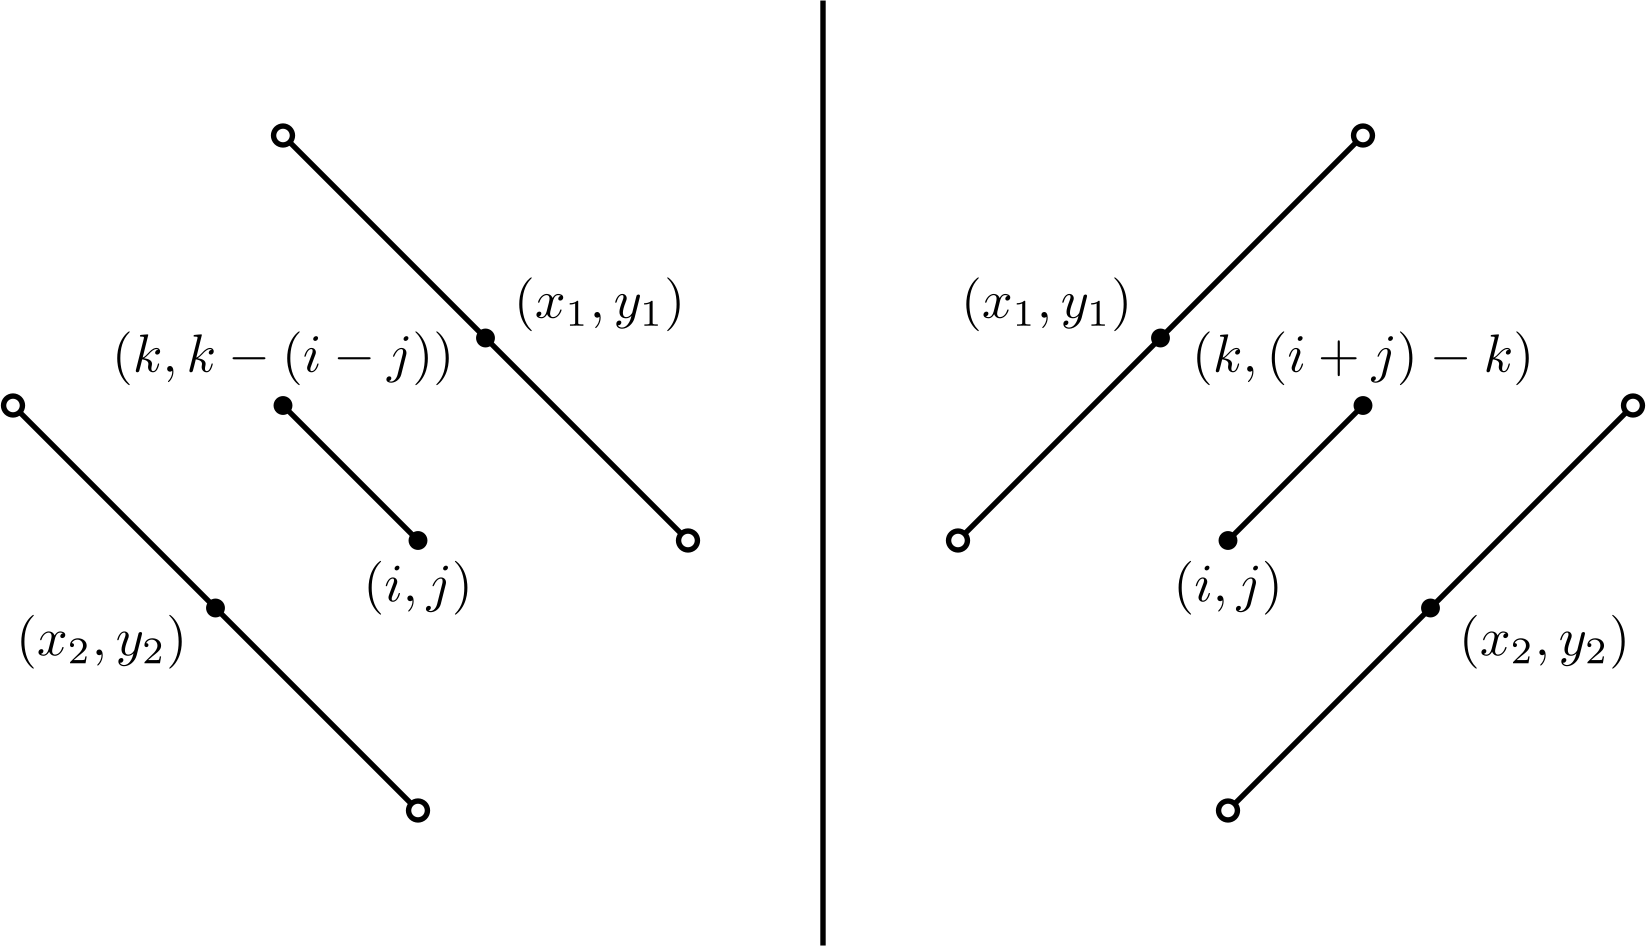
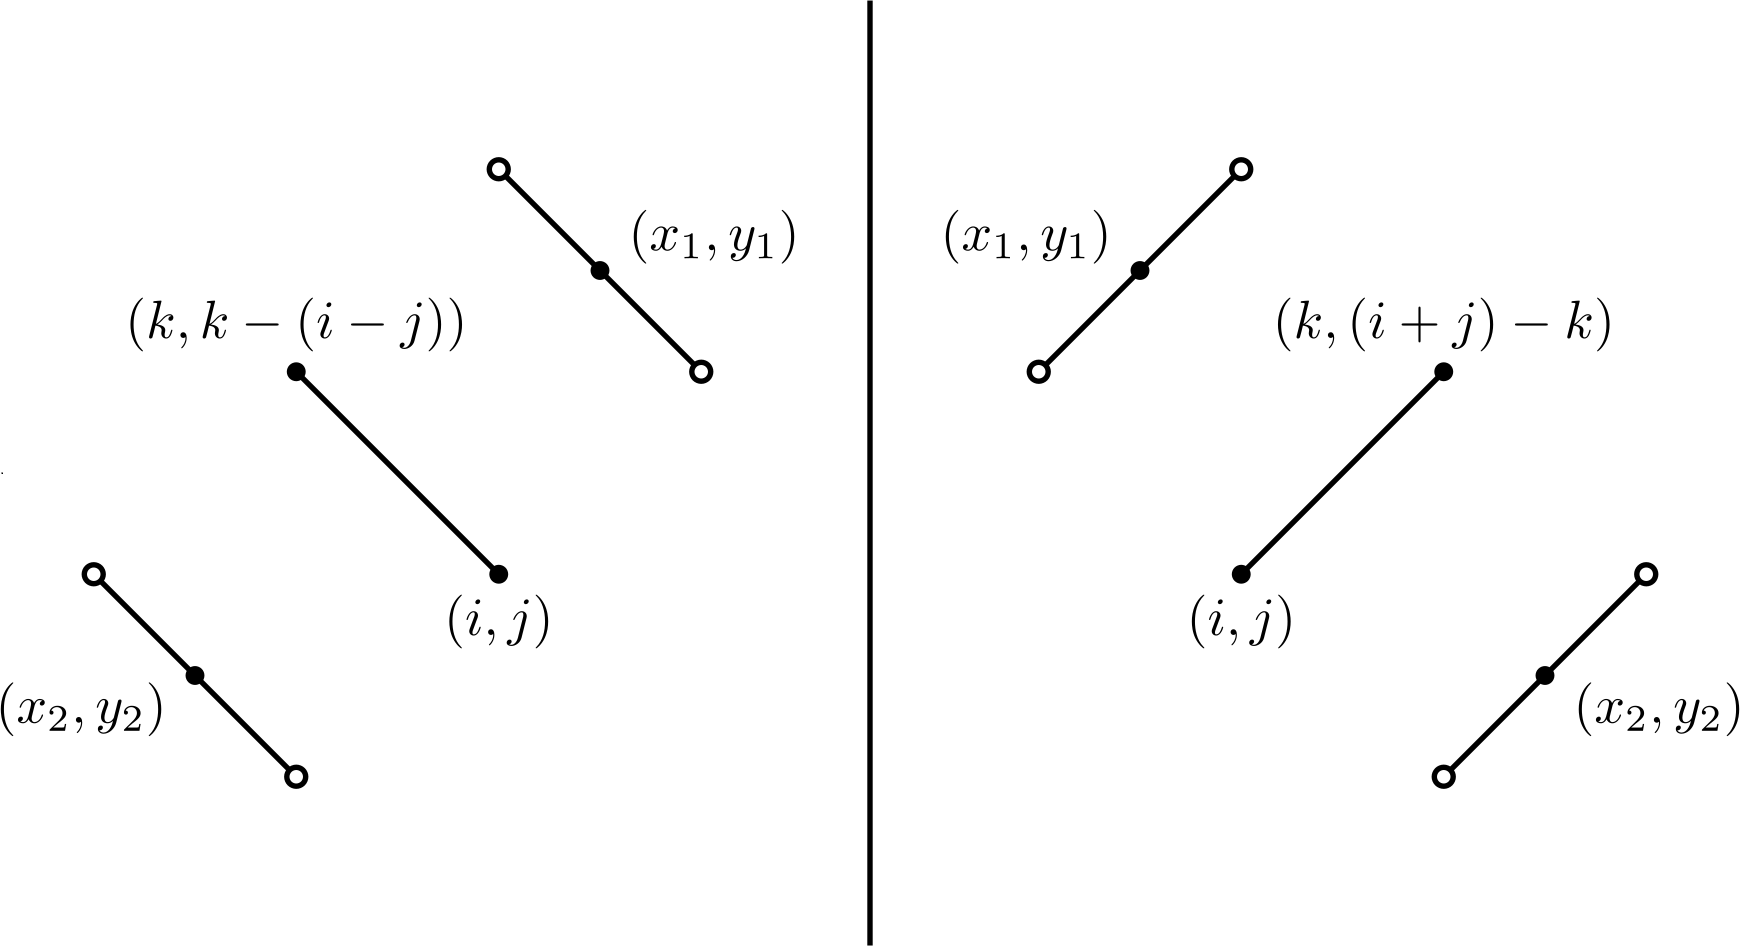
add

diff --git a/Sol/AT_tenka1_2018_e/sol2.py b/Sol/AT_tenka1_2018_e/sol2.py
@@ -3,11 +3,12 @@ import sys; sys.path.append(path + "Sol\\template"); from seg import *
 
 eps1, eps2 = 0.25, 0.35
 delta = 3.5
+scale = 1.5
 
 class Sol(Scene):
 	def construct(self):
 		self.camera.background_color = WHITE
-		x11, y11 = 1 - delta, 1; x12, y12 = -1 - delta, -1; x2, y2 = 0.5 - delta, -0.5; x3, y3 = -0.5 - delta, 0.5
+		x11, y11 = 1 * scale - delta, 1 * scale; x12, y12 = -1 * scale - delta, -1 * scale; x2, y2 = 0.5 * scale - delta, -0.5 * scale; x3, y3 = -0.5 * scale - delta, 0.5 * scale
 		list = [
 			point(1, x11, y11), point(1, x12, y12), point(1, x2, y2), point(1, x3, y3),
 			Line([x3, y3, 0], [x2, y2, 0], color = BLACK),
@@ -15,14 +16,14 @@ class Sol(Scene):
 			Tex(r"$(x_2,y_2)$", color = BLACK).move_to([x12, y12 - eps1, 0]).scale(0.8).align_to([x12 - eps1, y12, 0], RIGHT),
 			Tex(r"$(i,j)$", color = BLACK).move_to([x2, y2 - eps2, 0]).scale(0.8),
 			Tex(r"$(k,k-(i-j))$", color = BLACK).move_to([x3, y3 + eps2, 0]).scale(0.8),
-			Line([x3, y3 + 2 * (x2 - x3), 0], [x2 + 2 * (x2 - x3), y2, 0], color = BLACK),
-			Line([x3 - 2 * (x2 - x3), y3, 0], [x2, y2 - 2 * (x2 - x3), 0], color = BLACK),
-			point(0, x3, y3 + 2 * (x2 - x3)), point(0, x2 + 2 * (x2 - x3), y2),
-			point(0, x3 - 2 * (x2 - x3), y3), point(0, x2, y2 - 2 * (x2 - x3)),
+			Line([x3, y3 - 2 * (x2 - x3), 0], [x2 - 2 * (x2 - x3), y2, 0], color = BLACK),
+			Line([x3 + 2 * (x2 - x3), y3, 0], [x2, y2 + 2 * (x2 - x3), 0], color = BLACK),
+			point(0, x3, y3 - 2 * (x2 - x3)), point(0, x2 - 2 * (x2 - x3), y2),
+			point(0, x3 + 2 * (x2 - x3), y3), point(0, x2, y2 + 2 * (x2 - x3)),
 		]
 		add(self, list)
 
-		x11, y11 = -1 + delta, 1; x12, y12 = 1 + delta, -1; x2, y2 = -0.5 + delta, -0.5; x3, y3 = 0.5 + delta, 0.5
+		x11, y11 = -1 * scale + delta, 1 * scale; x12, y12 = 1 * scale + delta, -1 * scale; x2, y2 = -0.5 * scale + delta, -0.5 * scale; x3, y3 = 0.5 * scale + delta, 0.5 * scale
 		list = [
 			point(1, x11, y11), point(1, x12, y12), point(1, x2, y2), point(1, x3, y3),
 			Line([x3, y3, 0], [x2, y2, 0], color = BLACK),
@@ -30,10 +31,10 @@ class Sol(Scene):
 			Tex(r"$(x_2,y_2)$", color = BLACK).move_to([x12, y12 - eps1, 0]).scale(0.8).align_to([x12 + eps1, y12, 0], LEFT),
 			Tex(r"$(i,j)$", color = BLACK).move_to([x2, y2 - eps2, 0]).scale(0.8),
 			Tex(r"$(k,(i+j)-k)$", color = BLACK).move_to([x3, y3 + eps2, 0]).scale(0.8),
-			Line([x3, y3 + 2 * (x3 - x2), 0], [x2 - 2 * (x3 - x2), y2, 0], color = BLACK),
-			Line([x3 + 2 * (x3 - x2), y3, 0], [x2, y2 - 2 * (x3 - x2), 0], color = BLACK),
-			point(0, x3, y3 + 2 * (x3 - x2)), point(0, x2 - 2 * (x3 - x2), y2),
-			point(0, x3 + 2 * (x3 - x2), y3), point(0, x2, y2 - 2 * (x3 - x2)),
+			Line([x3, y3 - 2 * (x3 - x2), 0], [x2 + 2 * (x3 - x2), y2, 0], color = BLACK),
+			Line([x3 - 2 * (x3 - x2), y3, 0], [x2, y2 + 2 * (x3 - x2), 0], color = BLACK),
+			point(0, x3, y3 - 2 * (x3 - x2)), point(0, x2 + 2 * (x3 - x2), y2),
+			point(0, x3 - 2 * (x3 - x2), y3), point(0, x2, y2 + 2 * (x3 - x2)),
 		]
 		add(self, list)
 
